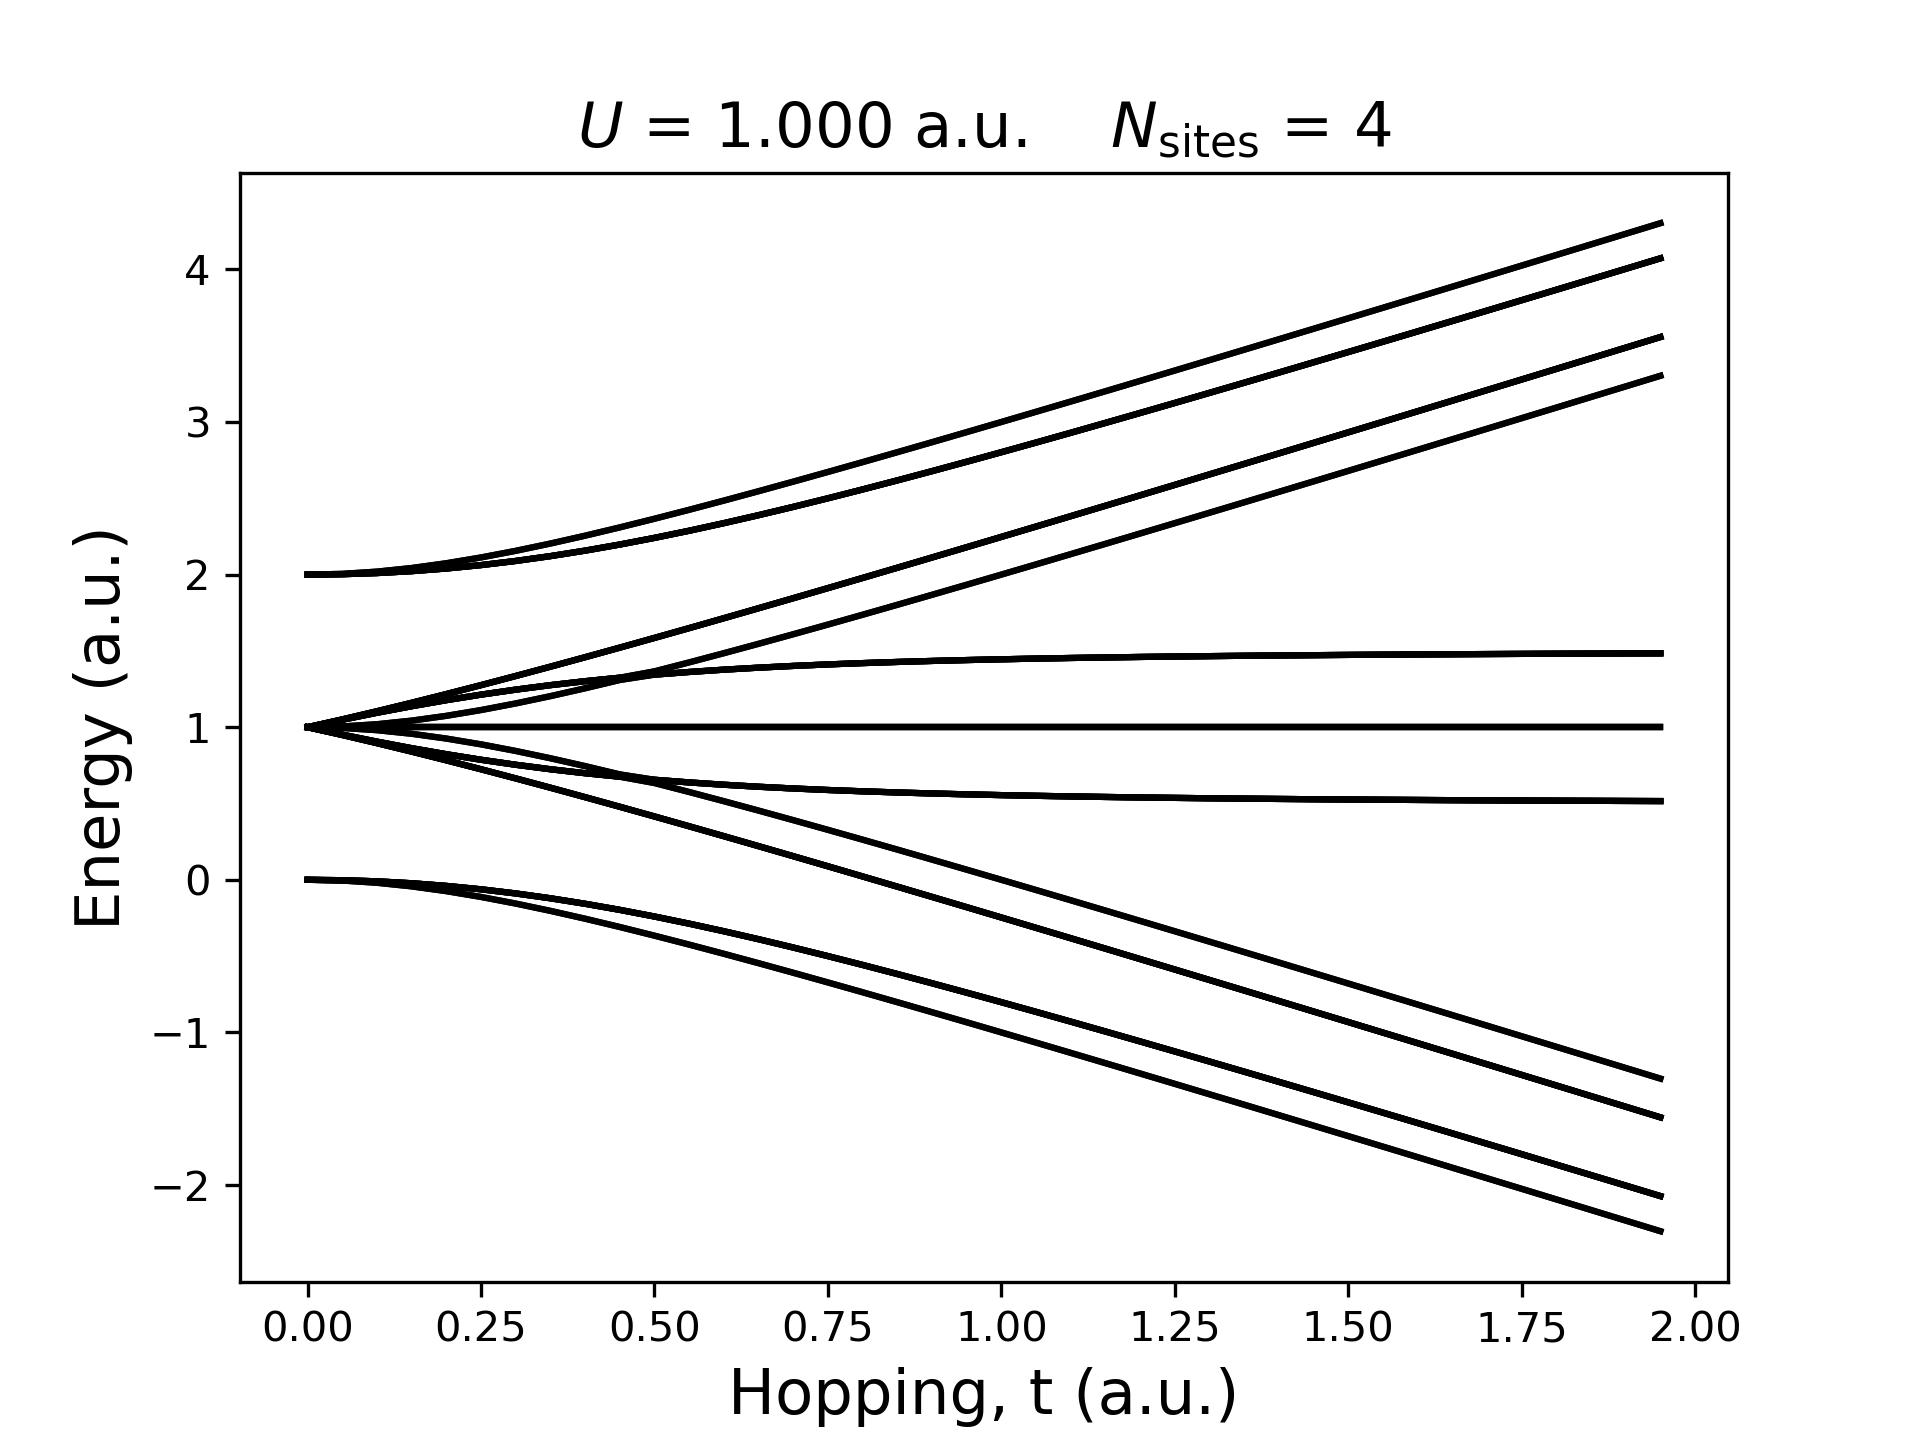
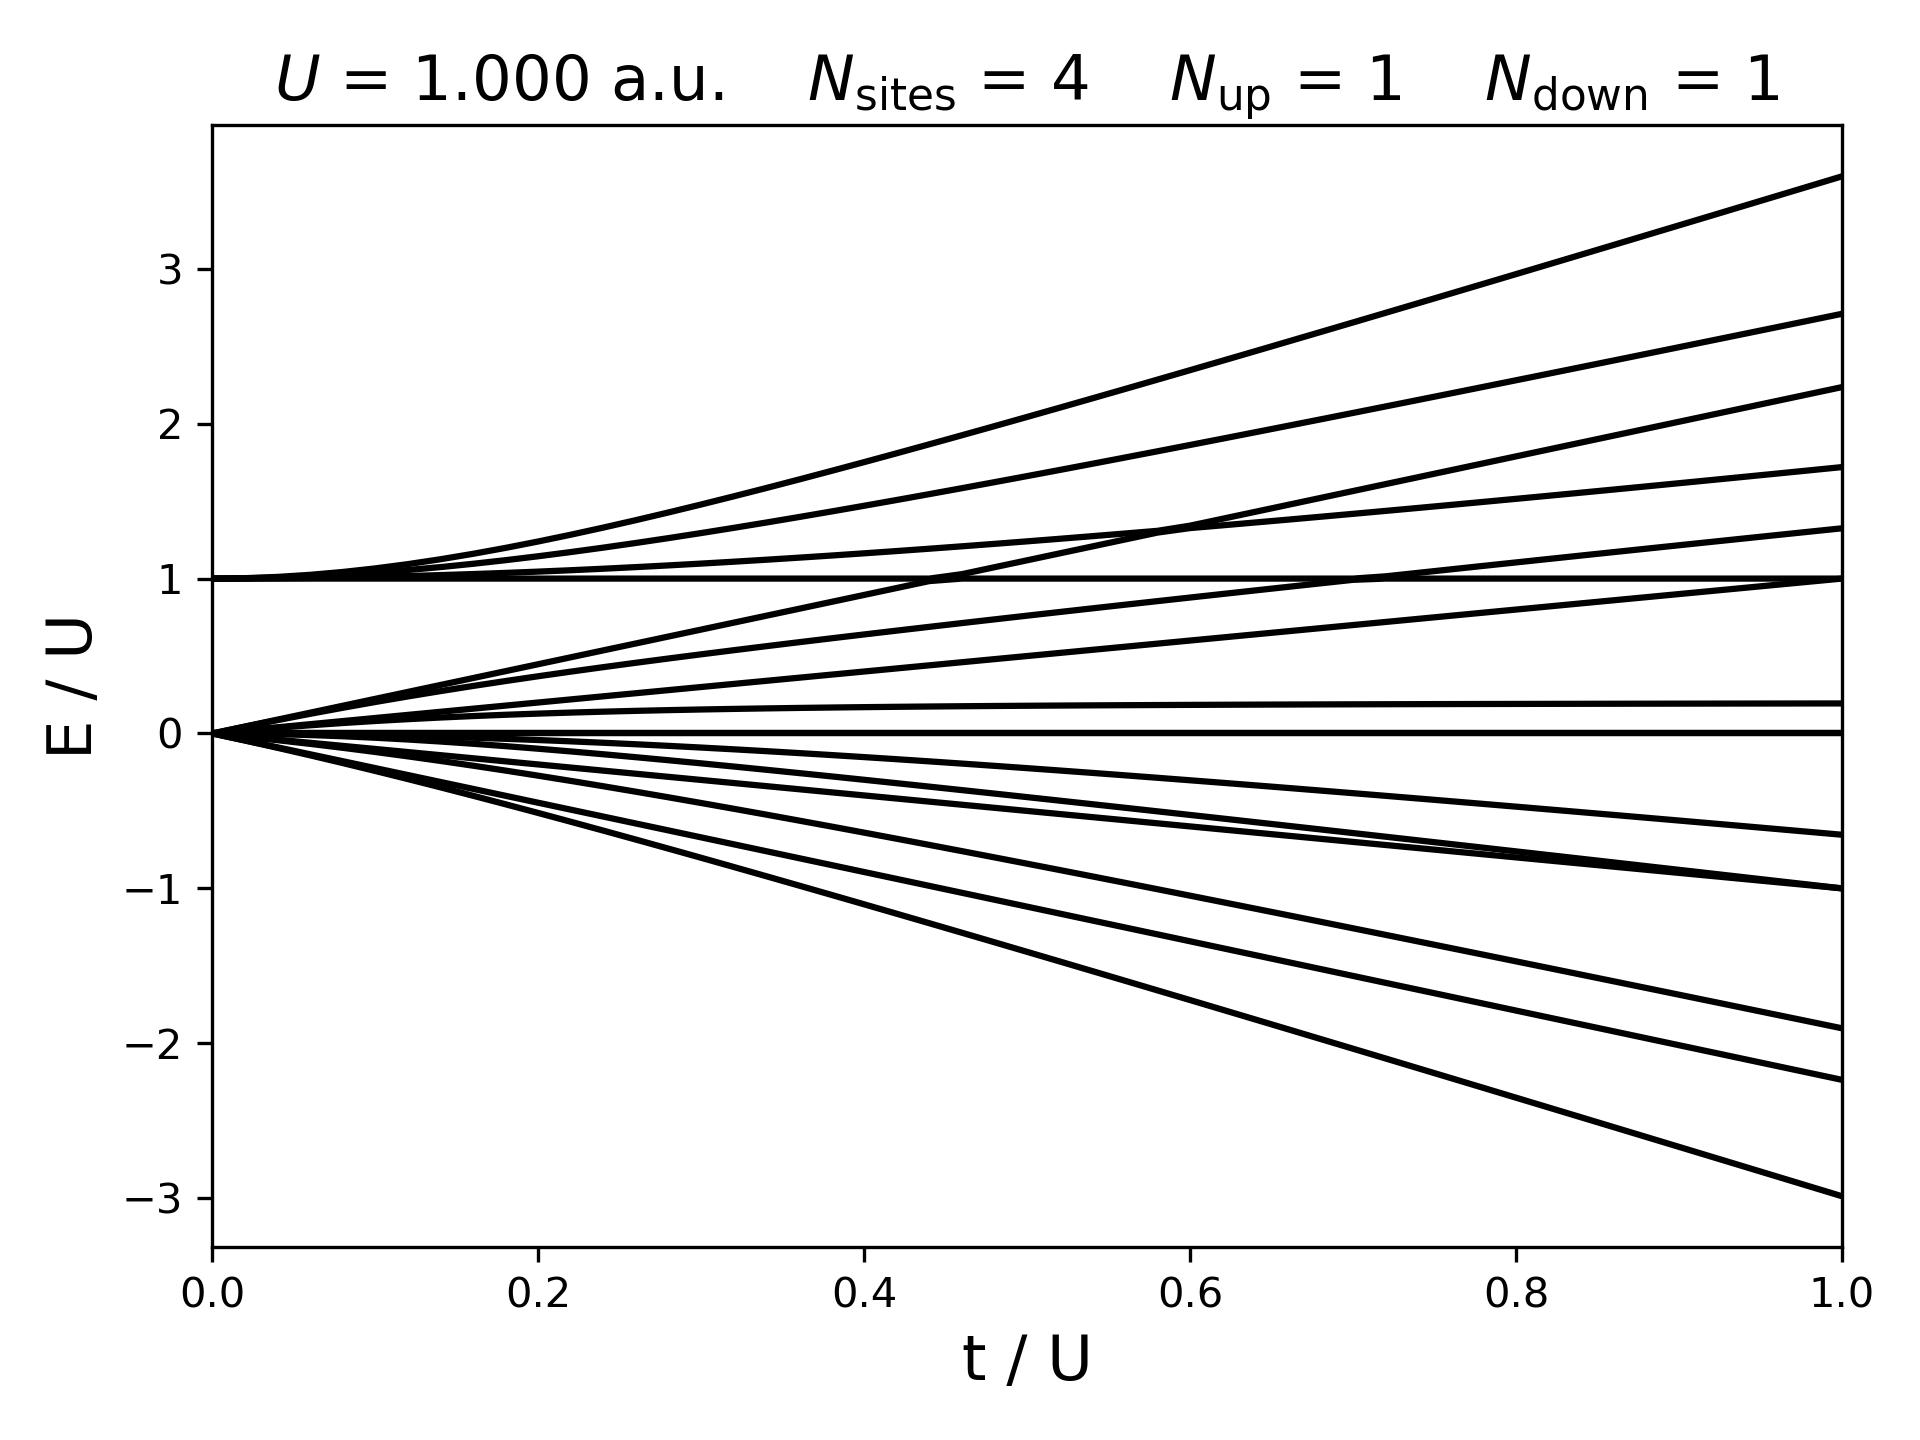
Fixed hopping bug / added IPR

Changed region(s): [[0.0312, 0.125, 0.9688, 1.0], [0.125, 0.0312, 0.9688, 0.1562]]

diff --git a/Exact_Diagonalization/Hubbard.py b/Exact_Diagonalization/Hubbard.py
@@ -4,12 +4,13 @@ from matplotlib import pyplot as plt
 
 def get_Globals( tl ):
     # Parameters
-    global N, t, U, n_up, n_down
-    N      = 4  # Number of sites
-    t      = tl  # Hopping parameter
-    U      = 1.0  # On-site interaction parameter
-    n_up   = 2  # Number of spin-up electrons
-    n_down = 2  # Number of spin-down electrons
+    global N, t, U, n_up, n_down#, PERIODIC
+    N        = 4  # Number of sites
+    t        = tl  # Hopping parameter
+    U        = 1.0  # On-site interaction parameter
+    n_up     = 1  # Number of spin-up electrons
+    n_down   = 1  # Number of spin-down electrons
+    #PERIODIC = True # TODO
 
 def create_hubbard_basis(N, n_up, n_down):
     """
@@ -34,9 +35,11 @@ def create_hubbard_basis(N, n_up, n_down):
     
     NBASIS = len(basis_states)
 
-    print(f"dim(H) = {NBASIS}")
-    for bi,b in enumerate( basis_states ):
-        print(bi, b)
+    np.savetxt("BASIS_STATES.dat", basis_states, fmt="%1.0f")
+
+    #print(f"dim(H) = {NBASIS}")
+    #for bi,b in enumerate( basis_states ):
+    #    print(bi, b)
 
     basis_states = np.array(basis_states)
 
@@ -48,20 +51,32 @@ def create_hubbard_hamiltonian():
     H = np.zeros((NBASIS, NBASIS))
     
     # Hopping term
-    for b1 in range( NBASIS-1 ):
-        b2 = b1 + 1
-        state1 = basis_states[b1]
-        state2 = basis_states[b2]
-        for i in range(N):
-            CHANGE_ALPHA = state1[:N] - state2[:N]
-            CHANGE_BETA  = state1[N:] - state2[N:]
-            #print(state1, "-->", state2, CHANGE_ALPHA, CHANGE_BETA, np.sum(np.abs(CHANGE_ALPHA))//2, np.sum(np.abs(CHANGE_BETA))//2 )
-            if ( np.sum(np.abs(CHANGE_ALPHA))//2 == 0 and np.sum(np.abs(CHANGE_BETA))//2 == 1 ):
-                H[b1,b2] = -t
-                H[b2,b1] = -t
-            elif ( np.sum(np.abs(CHANGE_ALPHA))//2 == 1 and np.sum(np.abs(CHANGE_BETA))//2 == 0 ):
-                H[b1,b2] = -t
-                H[b2,b1] = -t
+    for b1 in range( NBASIS ):
+        for b2 in range( NBASIS ):
+            state1 = basis_states[b1]
+            state2 = basis_states[b2]
+            if ( (state1[N:] == state2[N:]).all() ): # Check for frozen spin-down
+                ZEROS = (state1[:N] + state2[:N] - 1 == 0)
+                ZEROS = np.where(ZEROS)[0]
+                if ( len(ZEROS) == 2 ):
+                    if ( abs(ZEROS[1] - ZEROS[0]) == 1 ):
+                        #print("UP")
+                        #print("   ALPHA", state1[:N], state2[:N])
+                        #print("   BETA ", state1[N:], state2[N:])
+                        H[b1,b2] = -t
+                        H[b2,b1] = -t
+            elif ( (state1[:N] == state2[:N]).all() ): # Check for frozen spin-up
+                ZEROS = (state1[N:] + state2[N:] - 1 == 0)
+                ZEROS = np.where(ZEROS)[0]
+                if ( len(ZEROS) == 2 ):
+                    if ( abs(ZEROS[1] - ZEROS[0]) == 1 ):
+                        #print("UP")
+                        #print("   ALPHA", state1[:N], state2[:N])
+                        #print("   BETA ", state1[N:], state2[N:])
+                        H[b1,b2] = -t
+                        H[b2,b1] = -t
+
+
 
         
     # On-site interaction term
@@ -71,67 +86,109 @@ def create_hubbard_hamiltonian():
         NU      = np.sum( OCC )
         #print(state[:N], state[N:], NU)
         H[b,b]  = NU * U
-    
 
-    # plt.imshow( H, origin='lower', cmap='viridis' )
-    # plt.colorbar(pad=0.01)
-    # plt.xticks( ticks=np.arange(NBASIS), labels=["".join(map(str,basis_states[b])) for b in range(NBASIS)], rotation=60, fontsize=5 )
-    # plt.yticks( ticks=np.arange(NBASIS), labels=["".join(map(str,basis_states[b])) for b in range(NBASIS)], rotation=30, fontsize=5 )
-    # plt.tight_layout()
-    # plt.savefig("H.jpg", dpi=300)
-    # plt.clf()
     return H
 
 def plot_Energy( E, t_LIST ):
     for state in range( NBASIS ):
-        plt.plot( t_LIST, E[:,state], '-', c='black' ) # , label="$\psi_%1.0f$" % state )
+        plt.plot( t_LIST/U, E[:,state]/U, '-', c='black' ) # , label="$\psi_%1.0f$" % state )
     #plt.legend()
-    plt.xlabel("Hopping, t (a.u.)", fontsize=15)
-    plt.ylabel("Energy (a.u.)", fontsize=15)
-    plt.title("$U$ = %1.3f a.u.    $N_\mathrm{sites}$ = %1.0f" % (U,N), fontsize=15)
+    plt.xlabel("t / U", fontsize=15)
+    plt.ylabel("E / U", fontsize=15)
+    plt.xlim(t_LIST[0]/U, t_LIST[-1]/U)
+    plt.title("$U$ = %1.3f a.u.    $N_\mathrm{sites}$ = %1.0f    $N_\mathrm{up}$ = %1.0f    $N_\mathrm{down}$ = %1.0f" % (U,N,n_up,n_down), fontsize=15)
+    plt.tight_layout()
     plt.savefig("E.jpg", dpi=300)
+    plt.clf()
+
+    for state in range( NBASIS ):
+        plt.plot( t_LIST/U, E[:,state]/U - E[:,0]/U, '-', c='black' ) # , label="$\psi_%1.0f$" % state )
+    #plt.legend()
+    plt.xlabel("t / U", fontsize=15)
+    plt.ylabel("E / U", fontsize=15)
+    plt.xlim(t_LIST[0]/U, t_LIST[-1]/U)
+    plt.title("$U$ = %1.3f a.u.    $N_\mathrm{sites}$ = %1.0f    $N_\mathrm{up}$ = %1.0f    $N_\mathrm{down}$ = %1.0f" % (U,N,n_up,n_down), fontsize=15)
+    plt.tight_layout()
+    plt.savefig("E_TRANS.jpg", dpi=300)
     plt.clf()
 
 def plot_Wavefunctions( E, WFN, t_LIST ):
     # Full basis
     for state in range( 1 ):
-        plt.imshow( WFN[:,:,state].T**2, origin='lower', cmap='afmhot_r', extent=[t_LIST[0], t_LIST[-1], 0.5, NBASIS+0.5], aspect='auto' )
+        plt.imshow( WFN[:,:,state].T**2, origin='lower', cmap='afmhot_r', extent=[t_LIST[0]/U, t_LIST[-1]/U, 0.5, NBASIS+0.5], aspect='auto' )
         plt.colorbar(pad=0.01)
         #plt.yticks( ticks=np.arange(1, NBASIS+1,1), labels=np.arange(1,NBASIS+1,1) )
-        plt.yticks( ticks=np.arange(1, NBASIS+1,1), labels=["".join(map(str,basis_states[b])) for b in range(NBASIS)] )
-        plt.xlabel("Hopping Parameter, t (a.u.)", fontsize=15)
+        if ( NBASIS <= 100 ):
+            plt.yticks( ticks=np.arange(1, NBASIS+1,1), labels=["".join(map(str,basis_states[b])) for b in range(NBASIS)] )
+        plt.xlabel("t / U", fontsize=15)
         plt.ylabel("Basis State", fontsize=15)
-        plt.title("$U$ = %1.3f a.u.    $N_\mathrm{sites}$ = %1.0f" % (U,N), fontsize=15)
+        plt.title("$U$ = %1.3f a.u.    $N_\mathrm{sites}$ = %1.0f    $N_\mathrm{up}$ = %1.0f    $N_\mathrm{down}$ = %1.0f" % (U,N,n_up,n_down), fontsize=15)
         plt.tight_layout()
         plt.savefig(f"WFN_{state}.jpg", dpi=300)
         plt.clf()
 
     # Project into site basis
-    # N_OP = np.diag( np.arange(N) )
-    # N_OP = np.kron( np.identity(2), N_OP )
-    # print(N_OP)
-    # exit()
-    #for state in range( NBASIS ):
     for state in range( 1 ):
         POP = np.zeros( (len(t_LIST),N) )
         for s in range( N ):
             for b in range( NBASIS ):
                 if ( basis_states[b,s] == 1 or basis_states[b,s+N] == 1 ):
                     #print( "BASIS = ", basis_states[b,:], "Occupation = %1.0f" % (basis_states[b,s] + basis_states[b,s+N]), "on site %s" % s,  )
-                    POP[:,s] += WFN[:,b,state]**2 * (basis_states[b,s] + basis_states[b,s+N])
-        plt.imshow( POP[:,:].T, origin='lower', cmap='afmhot_r', extent=[t_LIST[0], t_LIST[-1], 0.5, N+0.5], aspect='auto' )
-        cbar = plt.colorbar(pad=0.01,label="Average Occupation, $\langle \hat{N} \\rangle$")
-        plt.yticks( ticks=np.arange(1, N+1,1), labels=np.arange(1, N+1,1) )
-        plt.xlabel("Hopping Parameter, t (a.u.)", fontsize=15)
+                    #POP[:,s] += WFN[:,b,state]**2 * (basis_states[b,s] + basis_states[b,s+N]) # Calculate Average Electron Occupation to Each Site
+                    POP[:,s] += WFN[:,b,state]**2 # Calculate Site Contribution
+        plt.imshow( POP[:,:].T, origin='lower', cmap='afmhot_r', extent=[t_LIST[0]/U, t_LIST[-1]/U, 0.5, N+0.5], aspect='auto' )
+        #plt.colorbar(pad=0.01,label="Average Occupation, $\langle \hat{N} \\rangle$")
+        plt.colorbar(pad=0.01,label="Site Population, $\langle \hat{N} \\rangle$")
+        if ( NBASIS <= 100 ):
+            plt.yticks( ticks=np.arange(1, N+1,1), labels=np.arange(1, N+1,1) )
+        plt.xlabel("t / U", fontsize=15)
         plt.ylabel("Lattice Site, $n$", fontsize=15)
-        plt.title("$U$ = %1.3f a.u.    $N_\mathrm{sites}$ = %1.0f" % (U,N), fontsize=15)
+        plt.title("$U$ = %1.3f a.u.    $N_\mathrm{sites}$ = %1.0f    $N_\mathrm{up}$ = %1.0f    $N_\mathrm{down}$ = %1.0f" % (U,N,n_up,n_down), fontsize=15)
         plt.tight_layout()
         plt.savefig(f"WFN_{state}_SITE.jpg", dpi=300)
         plt.clf()
 
+def plot_Hamiltonian( H ):
+
+    plt.imshow( H/U, origin='lower', cmap='viridis', vmin=-(n_up + n_down)//2, vmax=(n_up + n_down)//2 )
+    plt.colorbar(pad=0.01)
+    if ( NBASIS <= 100 ):
+        plt.xticks( ticks=np.arange(NBASIS), labels=["".join(map(str,basis_states[b])) for b in range(NBASIS)], rotation=90, fontsize=5 )
+        plt.yticks( ticks=np.arange(NBASIS), labels=["".join(map(str,basis_states[b])) for b in range(NBASIS)], rotation=0, fontsize=5 )
+    plt.tight_layout()
+    plt.savefig("H.jpg", dpi=300)
+    plt.clf()
+
+def plot_IPR( WFN, t_LIST ):
+    """
+    IPR = (\sum_j^N WFN_j**4) * (1 / \sum_k^N WFN_k**2)
+    """
+
+    # Project into site basis
+    POP = np.zeros( (len(t_LIST),N) )
+    IPR = np.zeros( (len(t_LIST),NBASIS) )
+    for state in range( NBASIS ):
+        for b in range( NBASIS ):
+            for s in range( N ):
+                if ( basis_states[b,s] == 1 or basis_states[b,s+N] == 1 ):
+                    POP[:,s] += WFN[:,b,state]**2 #* (basis_states[b,s] + basis_states[b,s+N]) # Calculate Site Population
+        POP = POP / np.sum( POP[:,:], axis=-1 )[:,None]
+        IPR[:,state] = 1 / np.sum( POP[:,:]**2, axis=-1 ) #/ np.sum( POP[:,:], axis=-1 )
+    plt.imshow( IPR[:,:].T, origin='lower', cmap='afmhot_r', extent=[t_LIST[0]/U, t_LIST[-1]/U, 0.5, NBASIS+0.5], aspect='auto' )
+    plt.colorbar(pad=0.01,label="IPR (\# of Sites)")
+    if ( NBASIS <= 100 ):
+        plt.yticks( ticks=np.arange(1, NBASIS+1,1), labels=np.arange(1, NBASIS+1,1) )
+    plt.xlabel("t / U", fontsize=15)
+    plt.ylabel("State, $j$", fontsize=15)
+    plt.title("$U$ = %1.3f a.u.    $N_\mathrm{sites}$ = %1.0f    $N_\mathrm{up}$ = %1.0f    $N_\mathrm{down}$ = %1.0f" % (U,N,n_up,n_down), fontsize=15)
+    plt.tight_layout()
+    plt.savefig(f"IPR.jpg", dpi=300)
+    plt.clf()
+
 def main():
 
-    t_LIST = np.arange( 0.0, 2.0, 0.05 )
+    #t_LIST = np.array([0.0, 1.0])
+    t_LIST = np.linspace( 0.0, 1.0, 51 )
     E   = 0
     WFN = 0
     
@@ -140,18 +197,29 @@ def main():
 
         # Create the basis states with the given electron configuration
         create_hubbard_basis(N, n_up, n_down)
+        print(ti, t, NBASIS)
         if ( ti == 0 ):
             E   = np.zeros( (len(t_LIST), NBASIS) )
             WFN = np.zeros( (len(t_LIST), NBASIS, NBASIS) )
 
         # Create the Hamiltonian
         H = create_hubbard_hamiltonian()
+        if ( ti == len(t_LIST)-1 ):
+            plot_Hamiltonian( H )
 
         # Find the ground state energy and eigenvector
         E[ti,:], WFN[ti,:,:] = np.linalg.eigh(H)  # Find all eigenvalues and eigenvectors
 
+    plt.plot( WFN[-1,:,0]**2, lw=3 )
+    plt.plot( WFN[-1,:,1]**2, "--", lw=1.5 )
+    plt.tight_layout()
+    plt.savefig("TEST.jpg", dpi=300)
+    plt.clf()
+
     plot_Energy( E, t_LIST )
     plot_Wavefunctions( E, WFN, t_LIST )
+    plot_IPR( WFN, t_LIST )
+
 
 
 if ( __name__ == "__main__"):
